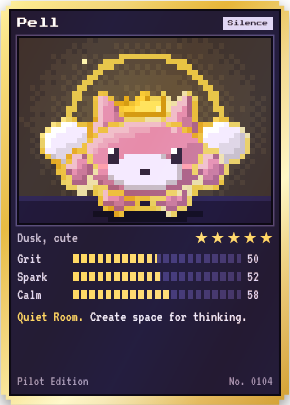
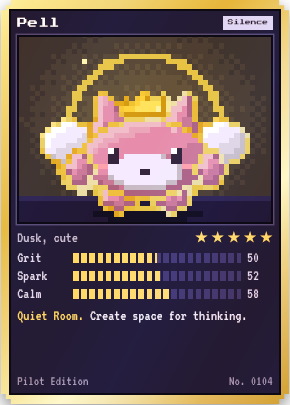
Tests up to date with 0.74 to 0.83; appearance references regenerated
The full run on 0.83 found only tests that still expected removed features (the Journal calendar and its stamps,
ribbons and their toasts, This week on Today, the ember count on the Hearth, eight What's New notes, five tabs,
the Map/Tales/Journal switch). Each now checks the current design. qa_ref: the card face sits one pixel lower than
the 0.73 references (creature art identical), regenerated with REF_UPDATE=1. Japanese listing text for 0.83.

Claude-Session: https://claude.ai/code/session_01QDdhyXcZrsuDWwz938x8Fo

diff --git a/qa/qa_385.py b/qa/qa_385.py
@@ -20,8 +20,8 @@ with sync_playwright() as p:
         first_card(pg); closemodals(pg); dev(pg,"week"); closemodals(pg)
         s=st(pg); s["opens"]+=[s["date"]]; s["status"]="done"; s["history"]=[h for h in s["history"] if h["date"]!=s["date"]]+[{"date":s["date"],"status":"done","v":s["todayV"]}]; setst(pg,s); pg.reload(); pg.wait_for_timeout(1000); closemodals(pg); tabto(pg,"today")
         w=pg.evaluate("()=>{const box=document.querySelector('#view-today .weekbox');const ds=[...box.querySelectorAll('.dots .dot')];return {n:ds.length,letters:ds.map(d=>d.dataset.d).join(''),done:ds.filter(d=>d.classList.contains('done')).map(d=>getComputedStyle(d).backgroundImage.includes('svg')).every(Boolean),rest:ds.filter(d=>d.classList.contains('rest')).map(d=>getComputedStyle(d).backgroundImage.includes('svg')).every(Boolean),nrest:ds.filter(d=>d.classList.contains('rest')).length,now:ds.filter(d=>d.classList.contains('now')).length,labels:ds.every(d=>d.getAttribute('role')==='img'&&/: /.test(d.getAttribute('aria-label'))),finds:!!box.querySelector('.latest.shelf button'),txt:box.innerText}}")
-        rec("Week",f"{ph}: the week is seven tiles with weekday letters, flames for days shown up and a moon for the rest day, today ringed",w["n"]==7 and len(w["letters"])==7 and w["done"] and w["rest"] and w["nrest"]>=1 and w["now"]==1 and w["labels"],w)
-        rec("Week",f"{ph}: one This week panel holds the count and Latest finds, on a shelf","This week" in w["txt"] and "days showed up" in w["txt"] and "Latest finds" in w["txt"] and w["finds"])
+        rec("Week",f"{ph}: This week has left Today (0.79: the book's contents keep the weeks); no weekday tiles remain",w["n"]==0 and "days showed up" not in w["txt"],w)
+        rec("Week",f"{ph}: Latest finds still stand on a shelf on Today","Latest finds" in w["txt"] and w["finds"])
         fb=pg.evaluate("()=>[...document.querySelectorAll('#view-today .facebtn')].map(b=>({f:b.dataset.ask,svg:!!b.querySelector('svg.feelface'),h:b.querySelector('svg').getBoundingClientRect().height,t:b.innerText.trim(),p:b.getAttribute('aria-pressed')}))")
         rec("Feel",f"{ph}: How did it feel? is three pixel faces with their words, and a tap still records it",len(fb)==3 and all(x["svg"] and x["h"]>=30 for x in fb) and [x["t"] for x in fb]==["Easy","Good","Hard"],fb)
         sz=pg.evaluate("()=>[...document.querySelectorAll('#view-today .facebtn')].map(b=>[b.offsetWidth,b.offsetHeight])")
@@ -36,7 +36,7 @@ with sync_playwright() as p:
         rec("Toast",f"{ph}: a toast is a stepped pixel banner, not a pill",t["clip"] and "medal" not in t["cls"] and t["bg"]=="rgb(30, 23, 64)",t)
         s=st(pg); s["ribbons"]=[]; setst(pg,s); pg.reload(); pg.wait_for_timeout(2600); closemodals(pg); pg.wait_for_timeout(1500)
         t=pg.evaluate("()=>{const t=document.getElementById('toast'),cs=getComputedStyle(t),b=getComputedStyle(t,'::before');return {cls:t.className,bg:cs.backgroundColor,txt:t.innerText,medal:b.backgroundImage.includes('svg')}}")
-        rec("Toast",f"{ph}: a new ribbon arrives on a gold banner with a medal, and the words are unchanged","medal" in t["cls"] and t["bg"]=="rgb(255, 211, 107)" and t["txt"].startswith("New ribbon: ") and t["medal"],t)
+        rec("Toast",f"{ph}: ribbons are retired (0.80): goals pass quietly, no medal banner",("medal" not in t["cls"]) and not t["txt"].startswith("New ribbon"),t)
         # fields
         tabto(pg,"today"); pg.evaluate("document.getElementById('btnMargin').click()"); pg.wait_for_timeout(500)
         fi=pg.evaluate("()=>{const i=document.getElementById('jIn'),cs=getComputedStyle(i);return [cs.clipPath.startsWith('polygon')||(document.documentElement.classList.contains('jr')&&cs.borderTopWidth==='2px'),cs.borderTopLeftRadius]}")

diff --git a/qa/qa_22.py b/qa/qa_22.py
@@ -57,16 +57,12 @@ with sync_playwright() as p:
     ctx,pg=newpage(b); pg.goto(P); pg.wait_for_selector("#ageGo, #titleGo"); first_card(pg); closemodals(pg)
     s=hist(build(base,[2,2,2,1,1]),30); s["seen"]=99; setst(pg,s); pg.reload(); pg.wait_for_timeout(700); closemodals(pg)
     tabto(pg,"chronicle"); pg.evaluate("()=>document.querySelector('.tab[data-tab=\"book\"]').click()"); pg.wait_for_timeout(400)
-    cells=pg.evaluate("[...document.querySelectorAll('.cal span.c')].map(c=>[c.className,getComputedStyle(c).backgroundImage.includes('svg'),c.getAttribute('aria-label')])")
-    done=[c for c in cells if " done" in c[0]]; rest=[c for c in cells if " rest" in c[0]]; miss=[c for c in cells if " skipped" in c[0] or c[0].strip()=="c"]
-    rec("Journal","days you showed up get a flame stamp, rest days a moon, other days nothing",done and rest and all(c[1] for c in done) and all(c[1] for c in rest) and not any(c[1] for c in miss),(len(done),len(rest),len(miss)))
-    rec("Journal","…and each day still says what happened for screen readers",all("showed up" in c[2] for c in done) and all("rested" in c[2] for c in rest))
-    rec("Journal","a small key explains the stamps",pg.locator(".calkey").count()==1 and "showed up" in pg.inner_text(".calkey"))
-    # 0.43: ribbons are medals; earned ones are gold and say so, the rest say how close; details open on tap, never a progress bar
-    ribs=pg.evaluate("[...document.querySelectorAll('#view-chronicle .medal')].map(r=>[r.classList.contains('on'),r.querySelector('.sr').textContent,r.offsetHeight,r.querySelector('.pb')?1:0])")
-    rec("Journal","ribbons are medals: earned ones say so, the rest say how close, never a progress bar",ribs and all(r[3]==0 for r in ribs) and all(r[1].endswith("Earned")==r[0] for r in ribs) and all(r[2]>=44 for r in ribs),ribs[:4])
-    bad=[r for r in ribs if not r[0] and not re.search(r"\d+ of \d+$",r[1])]
-    rec("Journal","…and the dots match the count",not bad,bad[:2])
+    # 0.82: the calendar lives in the book's contents as one row a week (flame-red days you showed up, dashed rest days)
+    pg.evaluate("()=>{const t=document.getElementById('bkToc');t&&!t.disabled&&t.click()}"); pg.wait_for_timeout(300)
+    wk=pg.evaluate("[...document.querySelectorAll('#view-chronicle .bkwk')].map(r=>[r.querySelectorAll('.wkd i.done').length,r.querySelectorAll('.wkd i.rest').length,r.innerText.replace(/\\s+/g,' ').trim(),r.getBoundingClientRect().height])")
+    rec("Journal","the contents show the last weeks, marking days you showed up and rest days",wk and sum(w[0] for w in wk)>0 and sum(w[1] for w in wk)>0,wk[:2])
+    rec("Journal","…each row names its dates for screen readers and is a 44 pt target",all(w[2] and w[3]>=44 for w in wk))
+    rec("Journal","ribbons are retired (0.80): no medals, never a progress bar",pg.locator("#view-chronicle .medal, #view-chronicle .pb").count()==0)
     # ---------- Binder ----------
     s=st(pg); s["cards"][0]["fav"]=True
     for i,c in enumerate(s["cards"]): c["v"]=2 if i<3 else 4; c["dark"]=(i%2==1)

diff --git a/qa/qa_41.py b/qa/qa_41.py
@@ -26,7 +26,7 @@ with sync_playwright() as p:
     load(pg,s); tabto(pg,"hearth"); pg.tap("#hForge"); pg.wait_for_timeout(500); m=mt(pg)
     rec("Lantern","a new player sees the Crossing Lantern in the Forge, saying it needs a charted realm","Crossing Lantern" in m and "a fully charted realm" in m and "no realm fully charted yet" in m,m[-400:])
     rec("Hidden","…but no wards before the lantern","Ward of" not in m)
-    rec("Forge","sixteen pieces are listed (the lantern joins the ten, and 0.45 adds five bright relics)","0 of 16 pieces made" in m and m.count("Needs ")==16,m[:120])
+    rec("Forge","sixteen pieces are listed (the lantern joins the ten, and 0.45 adds five bright relics)",m.count("Needs ")==16,m[:120])
     closemodals(pg)
     rec("Hidden","no Turn the map over control before the lantern",(openmap(pg) or True) and pg.locator("#mapTurn").count()==0)
     labels=pg.evaluate("[...document.querySelectorAll('.mapsvg text')].map(t=>t.textContent)")
@@ -99,10 +99,10 @@ with sync_playwright() as p:
     rec("Tales","Tales shows the other side: Bramble's tale begun, the rest untold","Other side" in t and "The Keepers of the Edge" in t and t.count("an untold tale")>=4,(t.find("Tales from"),t[:200]))
     settle(pg); bad+=["tales: "+v for v in axe(pg)]
     pg.evaluate("()=>document.querySelector('.tab[data-tab=\"book\"]').click()"); pg.wait_for_timeout(300); t=pg.inner_text("#view-chronicle")
-    rec("Ribbons","with the lantern, Lantern Light is earned and Both Sides is listed","Lantern Light" in t and "Both Sides" in t and "cross1" in (st(pg).get("ribbons") or []))
+    rec("Ribbons","with the lantern, the Lantern Light goal is kept in the save (ribbons retired 0.80)","cross1" in (st(pg).get("ribbons") or []))
     # ---------- a ward ----------
     s=st(pg); s["curios"]["nest"]={"n":3,"cid":0,"at":s["date"]}; days(s,4); load(pg,s); tabto(pg,"hearth"); pg.tap("#hForge"); pg.wait_for_timeout(500); m=mt(pg)
-    rec("Ward","the Forge now lists five wards, made from Shade spares","Ward of Bramble" in m and "Ward of Void" in m and "Needs 2 Bramble spares" in m and "of 26 pieces made" in m,m[:120])
+    rec("Ward","the Forge now lists five wards, made from Shade spares","Ward of Bramble" in m and "Ward of Void" in m and "Needs 2 Bramble spares" in m,m[:120])
     tapm(pg,"#modal [data-fmake='ward0']"); m=mt(pg)
     rec("Ward","the ward is forged and can be worn by whoever helped",pg.locator("#modal [data-equip='ward0']").count()==1,m[:160])
     tapm(pg,"#modal [data-equip='ward0']"); s=st(pg); wc=[c for c in s["cards"] if c.get("keep")=="ward0"]

diff --git a/qa/qa_271.py b/qa/qa_271.py
@@ -25,14 +25,15 @@ with sync_playwright() as p:
     for t in ["today","hearth","binder","chronicle","settings"]:
         tabto(pg,t); seen.append(vis(pg))
     tabto(pg,"chronicle")
-    for sub in ["tales","journal"]:
+    for sub in ["tales"]:
         pg.evaluate(f"()=>document.querySelector('[data-sub=\"{sub}\"]').click()"); pg.wait_for_timeout(300); seen.append(vis(pg))
-    pg.evaluate("document.getElementById('jWeek').click()"); pg.wait_for_timeout(300); seen.append(mt(pg)); closemodals(pg)  # 0.43: This week opens as a sheet
+    pg.evaluate("()=>document.querySelector('.tab[data-tab=\"book\"]').click()"); pg.wait_for_timeout(300); seen.append(vis(pg))  # 0.78: the book has its own tab
+    pg.evaluate("(()=>{const o=document.getElementById('bkOpenB');if(o)o.click();for(let i=0;i<400&&document.getElementById('bkNext')&&!document.getElementById('bkNext').disabled;i++)document.getElementById('bkNext').click()})()"); pg.evaluate("document.getElementById('jWeek').click()"); pg.wait_for_timeout(300); seen.append(mt(pg)); closemodals(pg)  # 0.43: This week opens as a sheet
     allt="\n".join(seen)
     rec("Copy","no player text says Chronicle","Chronicle" not in allt,[l for l in allt.split("\n") if "Chronicle" in l][:3])
     rec("Copy","no Morning nudge setting and no 'Prototype only' notes","Morning nudge" not in allt and "Prototype only" not in allt and pg.locator("[data-setnudge]").count()==0)
     rec("Copy","the lore switch is called Whispers and tales","Whispers and tales on" in allt)
-    rec("Copy","the journal on day 1 says 'You showed up today.'","You showed up today." in allt and "of the last 1 day" not in allt)
+    rec("Copy","on day 1 the Book tab is the book, with no awkward counts (0.82)","of the last 1 day" not in allt and ("Next page" in allt or "Open the book" in allt))
     tales=seen[5]
     rec("Copy","with no curios yet, the Tales tab says how to find pages once, not five times",tales.count("Send a Forgeling")==0 and tales.count("Your first wander starts at the Hearth.")==1 and tales.count("0 of 4 pages")==5,tales[:300])
     rec("Copy","no undefined, NaN or null on any tab",not JUNK.search(allt),JUNK.findall(allt)[:3])

diff --git a/qa/qa_24.py b/qa/qa_24.py
@@ -117,13 +117,12 @@ with sync_playwright() as p:
         setst(p2,ss); p2.reload(); p2.wait_for_timeout(500); closemodals(p2); texts.add(p2.inner_text("#view-today .taskface p"))
     rec("Variety","over ten days the same calling is asked in at least 3 different ways",len(texts)>=3,texts); c2.close()
 
-    # ---------- your own small things: since 0.36 they live on the card (qa_36). The Journal still marks their days ----------
+    # ---------- your own small things: since 0.36 they live on the card (qa_36). The book keeps their pages ----------
     s=grown(base); s["history"]=[{"date":D(s,i),"status":"done","v":i%12} for i in range(1,11)]; s["owns"]=[{"id":1,"text":"Drink a glass of water","k":-1,"days":[D(s,i) for i in (0,1,3,5,40)]}]; ready(pg,s)
     rec("Own","Today has no separate tick row any more (own small things come up on the card)",pg.locator("#btnOwn").count()==0)
     tabto(pg,"chronicle"); pg.evaluate("()=>{const b=document.querySelector('.tab[data-tab=\"book\"]');if(b)b.click()}"); pg.wait_for_timeout(500)
-    own=pg.evaluate("[...document.querySelectorAll('.cal .c.own')].map(c=>c.getAttribute('aria-label'))"); txt=pg.inner_text("#view-chronicle")
-    rec("Own","the Journal calendar marks the days you did one (within five weeks)",len(own)==4 and all("your own small thing done" in a for a in own),own)
-    rec("Own","…and says how many",("You did your own small thing on 4 of these days" in txt) and "your own small thing" in pg.inner_text(".calkey"),[l for l in txt.split("\n") if "own small" in l])
+    txt=pg.inner_text("#view-chronicle")
+    rec("Own","the book keeps own-thing days as pages and never counts them (0.82: the calendar and its count left with the old Journal)","You did your own small thing on" not in txt and pg.locator("#view-chronicle .jbook").count()==1)
     # damaged
     for bad in ("x",None,[1],{"text":5,"days":"no"},{"text":"ok","days":["2026-01-01","2026-01-01","nope",7]}):
         s=st(pg); s["own"]=bad; s["backup"]=bad; ready(pg,s); o=st(pg)["own"]; bk=st(pg)["backup"]

diff --git a/qa/qa_485.py b/qa/qa_485.py
@@ -1,3 +1,4 @@
+import json
 from lib import *
 import datetime
 # 0.48.5: the phone's date moving back a day or two (travel west after midnight, a clock changed by hand) holds the
@@ -14,13 +15,13 @@ with sync_playwright() as p:
     s0=snap(pg); rec("Clock","day 1 is done with one Forgeling",s0["status"]=="done" and s0["cards"]==1,s0)
     s1=go(pg,2026,11,4); rec("Clock","the date moving back a day keeps the finished day: still done, no new card on offer",s1["date"]=="2026-11-05" and s1["status"]=="done" and s1["today"]==s0["today"],s1)
     s1b=go(pg,2026,11,3,23); rec("Clock","two days back still holds the day",s1b["date"]=="2026-11-05" and s1b["status"]=="done",s1b)
-    tabto(pg,"hearth"); v0=pg.inner_text("#view-hearth"); import re as _re; vl=lambda t:(_re.search(r"Visits left today: (\d)",t) or [None,None])[1]
+    tabto(pg,"hearth"); v0=pg.inner_text("#view-hearth"); import re as _re; vl=lambda t:json.dumps(st(pg)["hearth"].get("visits"))  # 0.80: no counter on screen; read the save
     pg.evaluate("document.getElementById('hSnack').click()"); pg.wait_for_timeout(400)
     try: pg.locator("#modal [data-snack]").first.click(); pg.wait_for_timeout(500)
     except Exception: pass
     closemodals(pg); tabto(pg,"hearth"); used=vl(pg.inner_text("#view-hearth"))
     go(pg,2026,11,4); tabto(pg,"hearth"); after=vl(pg.inner_text("#view-hearth"))
-    rec("Clock","moving the date back does not give back Hearth visits",used is not None and after==used,(vl(v0),used,after))
+    rec("Clock","moving the date back does not give back Hearth visits",used not in (None,"null") and after==used,(vl(v0),used,after))
     s2=go(pg,2026,11,5); rec("Clock","back to the real date: still done, nothing logged twice",s2["date"]=="2026-11-05" and s2["status"]=="done" and s2["dup"]==0,s2)
     s3=go(pg,2026,11,6); rec("Clock","the next real day rolls over as usual",s3["date"]=="2026-11-06" and s3["status"]=="fresh" and s3["dup"]==0,s3)
     s4=go(pg,2026,11,9); h=st(pg)["history"]; miss=[x["date"] for x in h if x["status"]=="skipped"]

diff --git a/qa/qa_351.py b/qa/qa_351.py
@@ -31,9 +31,9 @@ with sync_playwright() as p:
             pn=pg.evaluate("()=>{const h=getComputedStyle(document.querySelector('#view-today .hero')),r=getComputedStyle(document.querySelector('#view-today .group'));return [h.backgroundColor,h.backgroundImage,r.backgroundColor,r.borderTopStyle,r.borderImageSource]}")
             rec("Look","panels are part of the page: no boxes, a dotted rule between sections",pn[0]=="rgba(0, 0, 0, 0)" and pn[1]=="none" and pn[2]=="rgba(0, 0, 0, 0)" and pn[3]=="dotted" and pn[4]=="none",pn)
             ic=pg.evaluate("()=>[...document.querySelectorAll('.tab svg')].map(s=>s.getAttribute('viewBox')+'|'+s.classList.contains('pi'))")
-            rec("Look","all five tabs keep their pixel icons",len(ic)==5 and all(x=="0 0 12 12|true" for x in ic),ic)
+            rec("Look","all six tabs keep their pixel icons (Book since 0.78)",len(ic)==6 and all(x=="0 0 12 12|true" for x in ic),ic)
             rb=pg.evaluate("()=>[...document.querySelectorAll('.tab')].map(t=>{const cs=getComputedStyle(t);return [cs.clipPath.slice(0,7),cs.backgroundColor,Math.round(t.getBoundingClientRect().height)]})")
-            rec("Look","the tabs are ribbons, each its own colour, and the open page's ribbon hangs longer",all(x[0]=="polygon" for x in rb) and len(set(x[1] for x in rb))==5 and rb[0][2]>max(x[2] for x in rb[1:]),rb)
+            rec("Look","the tabs are ribbons, each its own colour, and the open page's ribbon hangs longer",all(x[0]=="polygon" for x in rb) and len(set(x[1] for x in rb))==6 and rb[0][2]>max(x[2] for x in rb[1:]),rb)
             h1=pg.evaluate("()=>getComputedStyle(document.getElementById('title')).fontFamily")
             rec("Look","page titles are handwritten",h1.startswith('Caveat'),h1)
             pg.focus("#view-today .primary"); pg.keyboard.press("Tab"); pg.keyboard.press("Shift+Tab")

diff --git a/qa/qa_28.py b/qa/qa_28.py
@@ -56,7 +56,7 @@ with sync_playwright() as p:
     rec("Echo","answering 'I did it' shows the Forgeling's reply and keeps the line",s2["journal"][ago(10)].get("reply")=="did" and s2["mEcho"]["ans"]=="did" and s2["mEcho"]["line"] in pg.inner_text(".mecho") and pg.locator("[data-mecho]").count()==0,h[:300])
     rec("Echo","answering uses no visit",st(pg)["hearth"]["visits"]==vis_before)
     tabto(pg,"chronicle"); pg.evaluate("()=>document.querySelector('.tab[data-tab=\"book\"]').click()"); pg.wait_for_timeout(300)
-    pg.evaluate("()=>{const b=document.getElementById('jLines');b&&b.click()}"); pg.wait_for_timeout(400)  # 0.63: every done day is a page; older ones are under "All your pages"
+    pg.evaluate("(()=>{const o=document.getElementById('bkOpenB');if(o)o.click();for(let i=0;i<400&&document.getElementById('bkNext')&&!document.getElementById('bkNext').disabled;i++)document.getElementById('bkNext').click()})()"); pg.evaluate("()=>{const b=document.getElementById('jLines');b&&b.click()}"); pg.wait_for_timeout(400)  # 0.63: every done day is a page; older ones are under "All your pages"
     rec("Echo","the Journal shows how it went","Later: you did it." in pg.inner_text("#view-chronicle")+mt(pg))
     pg.reload(); pg.wait_for_timeout(800); closemodals(pg); tabto(pg,"hearth")
     rec("Echo","the answered note stays put for the rest of the day, without the buttons","Finish the essay draft" in pg.inner_text("#view-hearth") and pg.locator("[data-mecho]").count()==0)

diff --git a/qa/qa_51.py b/qa/qa_51.py
@@ -81,8 +81,8 @@ with sync_playwright() as p:
     ctx,pg=boot(b,w,hr,red); L=f"{w} {'night' if hr==22 else 'day'}{' reduced' if red else ''}"
     tabto(pg,'chronicle'); pg.wait_for_timeout(300)
     seg=pg.locator("#view-chronicle .seg")
-    rec("Switch",f"{L}: Map, Tales and Journal are one joined switch",seg.count()==1 and seg.locator("button").count()==3 and pg.evaluate("()=>{const b=[...document.querySelectorAll('.seg button')].map(x=>x.getBoundingClientRect());return Math.abs(b[0].top-b[2].top)<1&&b[1].left-b[0].right<2&&b.every(r=>r.height>=44)}"))
-    for i,s in enumerate(['tales','journal','map']):
+    rec("Switch",f"{L}: Map and Tales are one joined switch (the Journal is the Book tab since 0.78)",seg.count()==1 and seg.locator("button").count()==2 and pg.evaluate("()=>{const b=[...document.querySelectorAll('.seg button')].map(x=>x.getBoundingClientRect());return Math.abs(b[0].top-b[1].top)<1&&b[1].left-b[0].right<2&&b.every(r=>r.height>=44)}"))
+    for i,s in enumerate(['tales','map']):
       pg.evaluate(f"document.querySelector('.seg [data-sub={s}]').click()"); pg.wait_for_timeout(450)
       ok=pg.evaluate("s=>{const g=document.querySelector('.seg'),b=g.querySelector('[data-sub='+s+']'),m=new DOMMatrix(getComputedStyle(g,'::before').transform),gl=g.getBoundingClientRect().left+3+m.m41;return b.getAttribute('aria-pressed')==='true'&&Math.abs(gl-b.getBoundingClientRect().left)<3}",s)
       rec("Switch",f"{L}: the highlight sits under {s.title()}",ok)

diff --git a/qa/qa_36.py b/qa/qa_36.py
@@ -94,7 +94,7 @@ with sync_playwright() as p:
     tabto(pg,"settings"); pg.evaluate(f"document.querySelector('[data-ownrm=\"{mv['id']}\"]').click()"); pg.wait_for_timeout(300); s=st(pg)
     rec("Remove","removing one keeps its past days for the Journal",all(x["id"]!=mv["id"] for x in s["owns"]) and len(s["own"]["days"])>=before and before>0 and pg.locator("#ownIn").count()==1,(before,len(s["own"]["days"])))
     tabto(pg,"chronicle"); pg.evaluate("()=>document.querySelector('.tab[data-tab=\"book\"]').click()"); pg.wait_for_timeout(500)
-    rec("Journal","the Journal calendar still marks those days",pg.locator("#view-chronicle .cal .c.own").count()>=1)
+    rec("Journal","removing one keeps its pages in the book (0.82: the calendar left with the old Journal)",pg.locator("#view-chronicle .jbook").count()==1 and len(st(pg)["own"]["days"])>=1)
     # migration from the old single own small thing
     s=st(pg); s["owns"]=[]; s["own"]={"text":"Drink a glass of water","days":["2026-01-02","2026-01-05"]}; del s["want"]; del s["wantAsked"]; del s["settings"]["ownMix"]; load(pg,s); s=st(pg)
     rec("Migrate","the old own small thing becomes your first one, with its ticks",len(s["owns"])==1 and s["owns"][0]["text"]=="Drink a glass of water" and s["owns"][0]["days"]==["2026-01-02","2026-01-05"] and s["owns"][0]["k"]==-1 and s["own"]["text"]=="" and s["settings"]["ownMix"]=="mix" and s["want"]==[],s["owns"])

diff --git a/qa/qa_46.py b/qa/qa_46.py
@@ -43,7 +43,7 @@ with sync_playwright() as p:
             s["settings"]["sky"]="plain"; setst(pg,s); pg.reload(); pg.wait_for_timeout(800); closemodals(pg); tabto(pg,"binder")
             rec("Plain","in the Plain look there are no captions or stamps",pg.evaluate("[...document.querySelectorAll('.jcap,.jstamp')].every(e=>getComputedStyle(e).display==='none')"))
             s["settings"]["sky"]="auto"; s["seen"]=40; setst(pg,s); pg.reload(); pg.wait_for_timeout(1200); w=mt(pg)
-            rec("New","What's New leads with the field journal and keeps eight notes",w.find("A field journal")>=0 and w.find("A field journal")<w.find("Relics and gifts") and pg.locator("#modal .newlist li").count()==8,w[:100])
+            rec("New","What's New opens with the latest notes (the field journal has since rolled off; six kept since 0.83)",pg.locator("#modal .newlist li").count()>=6,w[:100])
         rec("All",f"{W}: no page errors",not pg._errs,pg._errs[:2]); ctx.close()
     b.close()
 save_results("qa_46"); print(sum(r["ok"] for r in RES),"/",len(RES))

diff --git a/qa/qa_281.py b/qa/qa_281.py
@@ -19,7 +19,7 @@ with sync_playwright() as p:
             closemodals(pg); pg.evaluate("document.getElementById('btnTerms').click()"); pg.wait_for_timeout(300); terms=mt(pg); closemodals(pg)
             rec("Terms","the terms give the support email",EMAIL in terms)
             s=st(pg); s["seen"]=0; setst(pg,s); pg.reload(); pg.wait_for_timeout(900); wn=mt(pg)
-            rec("What's New","What's New announces the new name (or it has rolled off the latest eight notes)","A new name: Forgelings" in wn or pg.locator("#modal .newlist li").count()==8,wn[:200])
+            rec("What's New","What's New announces the new name (or it has rolled off the latest eight notes)","A new name: Forgelings" in wn or pg.locator("#modal .newlist li").count()>=6,wn[:200])
             allt="\n".join(seen+[priv,terms,wn])
             rec("Copy","no screen calls the app plain 'Forge' (the Forge, every Forge and Forgebound are the world, and stay)",not stray(allt),stray(allt)[:5])
             rec("Copy","the world is still the Forge","The Forge" in allt)
